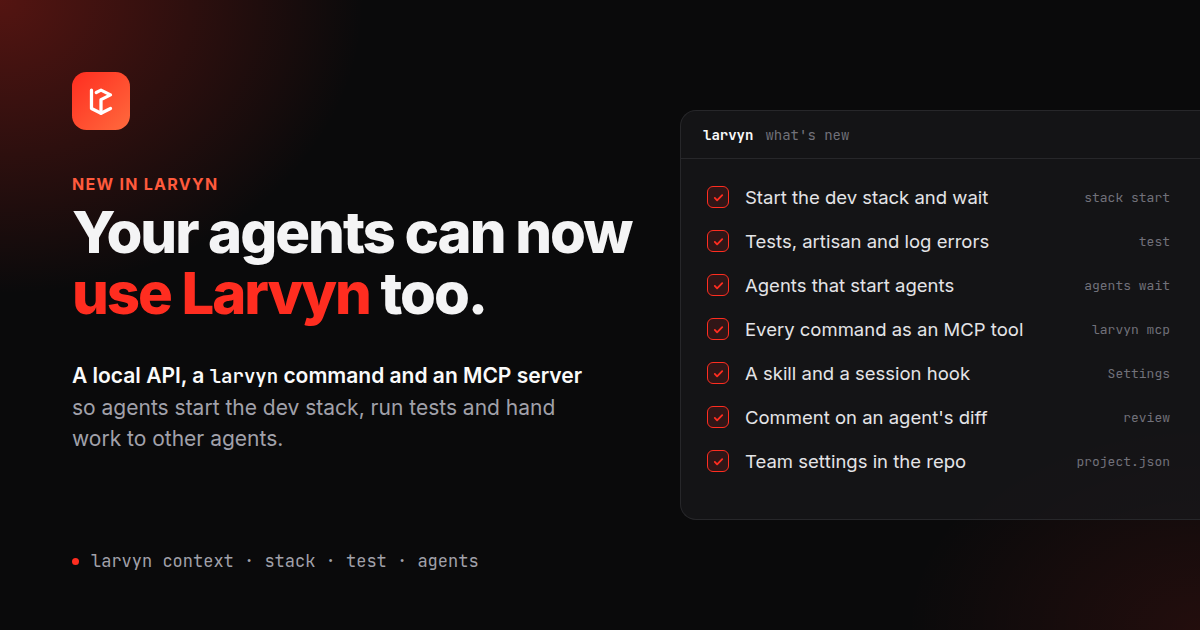
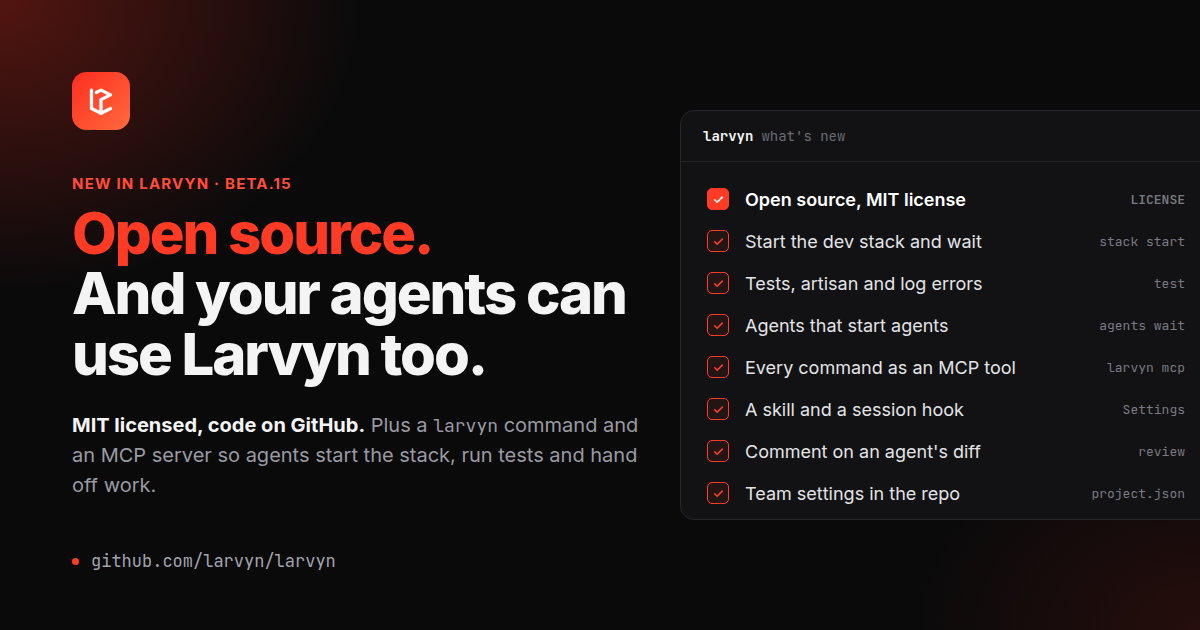
blog: beta.15 post, more on open source, docs links, open source cover

diff --git a/src/content/blog/beta-15.md b/src/content/blog/beta-15.md
@@ -3,9 +3,9 @@ title: 'Larvyn beta.15: open source, and your agents can use Larvyn too'
 description: 'Larvyn v0.1.0-beta.15 is open source (MIT). Agents can drive Larvyn through a CLI and MCP, plus Spec first, comments on an agent’s diff and a light theme.'
 pubDate: 2026-11-11
 author: Ivan Mercedes
-tags: ['Agents', 'Release']
+tags: ['Open source', 'Agents', 'Release']
 cover: ../../assets/blog/agents-api/cover.png
-coverAlt: 'The headline “Your agents can now use Larvyn too” next to a checklist: start the dev stack and wait, tests and log errors, agents that start agents, MCP tools, a skill and a session hook, comments on an agent’s diff, team settings in the repo.'
+coverAlt: 'The headline “Open source. And your agents can use Larvyn too.” next to a checklist: open source under the MIT license, start the dev stack and wait, tests and log errors, agents that start agents, MCP tools, a skill and a session hook, comments on an agent’s diff, team settings in the repo.'
 draft: false
 ---
 
@@ -13,7 +13,15 @@ draft: false
 
 ## Larvyn is open source
 
-The source code is now public under the [MIT License](https://github.com/larvyn/larvyn/blob/master/LICENSE), at [github.com/larvyn/larvyn](https://github.com/larvyn/larvyn). You can read how it works, build it yourself, and send a pull request. Larvyn is still free, and always will be.
+The source code is now public under the [MIT License](https://github.com/larvyn/larvyn/blob/master/LICENSE), at [github.com/larvyn/larvyn](https://github.com/larvyn/larvyn). Larvyn is still free, and always will be.
+
+Larvyn runs your terminals and your agents, and reads your `.env`. You no longer have to take our word for what it does with them: every line is there to read. It’s a Go app built with [Wails 3](https://v3.wails.io), with a React front end, and the same repository holds the `larvyn` command and the MCP server.
+
+- **Read it and build it.** The [README](https://github.com/larvyn/larvyn#develop) explains how the app is put together and how to run and build it from source with `wails3 dev`.
+- **Fork it and change it.** MIT means you can use it at work, ship your own build and keep your changes.
+- **Help shape it.** Fix the bug that bothers you, add the agent CLI you use, or send a pull request for anything on your list. Releases, [issues](https://github.com/larvyn/larvyn/issues) and [Discussions](https://github.com/larvyn/larvyn/discussions) now live in the same repository as the code.
+
+If Larvyn is useful to you, a [star on GitHub](https://github.com/larvyn/larvyn) helps other Laravel developers find it.
 
 ## Your agents can now use Larvyn too
 
@@ -37,7 +45,7 @@ Every terminal Larvyn opens now has a `larvyn` command on its PATH, and knows wh
 
 There’s more: the project’s models, read-only database queries and ports. **`larvyn lock acquire db`** lets several agents take turns on something they share, like the database. A lock waits while another agent holds it, and ends after its `--ttl` or when its terminal closes.
 
-`larvyn help` lists every command, and `--json` works on all of them. Run in an agent’s worktree, they act on that worktree and leave your main checkout alone.
+`larvyn help` lists every command, and `--json` works on all of them. Run in an agent’s worktree, they act on that worktree and leave your main checkout alone. The [command reference](/docs/cli/) covers each one.
 
 ## Agents that start agents
 
@@ -66,13 +74,13 @@ For agents that prefer MCP over a shell, **`larvyn mcp`** serves the same comman
 claude mcp add larvyn -- larvyn mcp
 ```
 
-Read-only tools (`context`, the `list`, `read`, `status` and `wait` tools, log errors) are marked as such, so clients can run them without asking. A long `agents_wait` doesn’t block the other calls. The Laravel playbooks (CRUD, tests, N+1, security review, upgrade…) are MCP prompts too: in Claude Code they show up in the `/` menu, filled in for your project.
+Read-only tools (`context`, the `list`, `read`, `status` and `wait` tools, log errors) are marked as such, so clients can run them without asking. A long `agents_wait` doesn’t block the other calls. The Laravel playbooks (CRUD, tests, N+1, security review, upgrade…) are MCP prompts too: in Claude Code they show up in the `/` menu, filled in for your project. See [MCP server](/docs/mcp/) for other clients.
 
 To make agents use all this without being told, open **Settings → Agents know Larvyn** and click **Set up agents**:
 
 ![The Agents know Larvyn card in Settings, with Preview, Set up agents and Remove buttons. It installs a larvyn skill and a session-start hook in Claude Code and Codex.](../../assets/blog/agents-api/setup.png)
 
-It installs a `larvyn` skill and a session-start hook in Claude Code and Codex (`larvyn agents setup` does the same from a terminal). When an agent starts in a Larvyn terminal, the hook tells it the project, the worktree and branch, the local URL and what’s running. Anywhere else it stays silent.
+It installs a `larvyn` skill and a session-start hook in Claude Code and Codex (`larvyn agents setup` does the same from a terminal). When an agent starts in a Larvyn terminal, the hook tells it the project, the worktree and branch, the local URL and what’s running. Anywhere else it stays silent. [Agent setup](/docs/agent-setup/) has the details.
 
 It only sets up agents you have installed. Your settings files keep their other hooks, key order and formatting, and the old version is saved next to them as a backup. **Preview** shows every file it would touch before anything is written, and **Remove** takes out only what Larvyn added.
 
@@ -85,7 +93,7 @@ Some features are worth planning before anyone writes code. Switch the Agents co
 3. **Builders** take the approved spec, each in its own worktree with a copy of it. Building without a READY review asks first.
 4. **The drift check.** Another fresh agent compares each attempt with the spec and lists every requirement done, done differently or missing, plus anything nobody asked for. **Send fixes** gives that report to the builder, and you merge the best attempt.
 
-Specs are local working files: Larvyn keeps `.larvyn/specs/` out of git and out of merges. The same workflow runs from the terminal with `larvyn specs draft|review|revise|build|drift|fix`, so an agent can run it too.
+Specs are local working files: Larvyn keeps `.larvyn/specs/` out of git and out of merges. The same workflow runs from the terminal with `larvyn specs draft|review|revise|build|drift|fix`, so an agent can run it too. More in [Spec first](/docs/spec-first/).
 
 ## Comment on an agent’s diff
 
@@ -130,7 +138,7 @@ Some setup belongs to the whole team: the commands everyone runs, and what a fre
 
 ![The Commands card in the Overview, loaded from project.json: Fresh database with demo data, Fix code style and Retry failed jobs, each with Run. Below: new agent worktrees run 2 setup steps first, composer install and php artisan migrate.](../../assets/blog/agents-api/commands.png)
 
-Larvyn picks up changes to the file on its own, after a `git pull` or a branch switch. A wrong entry is skipped and listed; a file that doesn’t parse keeps the last version that loaded, and the Doctor shows why.
+Larvyn picks up changes to the file on its own, after a `git pull` or a branch switch. A wrong entry is skipped and listed; a file that doesn’t parse keeps the last version that loaded, and the Doctor shows why. Every field is in the [project.json reference](/docs/project-json/).
 
 ## Light theme
 
@@ -138,7 +146,7 @@ Larvyn finally has a light theme. Pick it in **Settings → Workbench → Theme*
 
 ## Privacy, in one place
 
-A new **Privacy** card in **Settings → About** (and the README) now list every connection Larvyn makes, and when. The list is short. Larvyn checks GitHub for updates, reads the plugin marketplace, downloads Composer if you don’t have it, and fetches project avatars from GitHub. It has no telemetry, accounts or analytics, and it sends nothing about your projects, code, `.env` files or terminals.
+A new **Privacy** card in **Settings → About** (and the README) now lists every connection Larvyn makes, and when. The list is short. Larvyn checks GitHub for updates, reads the plugin marketplace, downloads Composer if you don’t have it, and fetches project avatars from GitHub. It has no telemetry, accounts or analytics, and it sends nothing about your projects, code, `.env` files or terminals.
 
 ![The Privacy card in Settings: Larvyn is free and has no telemetry, accounts or analytics, followed by a table of what it connects to for updates, plugins, Composer, project icons and feedback.](../../assets/blog/agents-api/privacy.png)
 
@@ -147,7 +155,7 @@ A new **Privacy** card in **Settings → About** (and the README) now list every
 - **Quieter defaults for new installs.** Agents ask before acting, only shells start again when Larvyn opens (services and agents wait for **Relaunch**), and Flock is off until you turn it on. Existing installs keep their settings.
 - **macOS:** “Open a project” no longer sets off privacy prompts for Music, Photos, Desktop, Documents, Downloads or network volumes. When it skips those folders the picker says so, with **Search them too**. Folders served by Herd and Valet are searched first, on every platform.
 - The breadcrumbs no longer run under the search bar in a narrow window or with a long branch name.
-- **Copy and paste with the mouse.** Right-click a terminal for **Copy** and **Paste**. Inside apps that capture the mouse, like Claude Code or vim, hold **Option** while dragging to select.
+- **Copy and paste with the mouse.** Right-click a terminal for **Copy** and **Paste**. Inside apps that capture the mouse, like Claude Code or vim, hold **Option** on macOS, or **Shift** on Windows and Linux, while dragging to select.
 - **Agents’ last rows are back.** Claude Code’s input box and status line were sometimes cut off at the bottom of a terminal. Terminals now measure themselves again once their font has loaded.
 - **macOS:** the window now has its close, minimise and full screen buttons.
 - **Custom agents** that you removed and added again come back after a restart, and agents that can’t resume say why and wait for **Relaunch** instead of showing garbled output.
